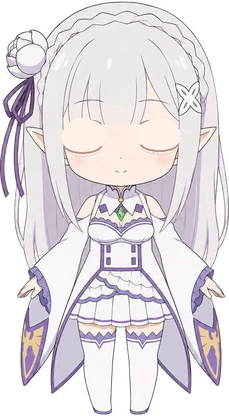
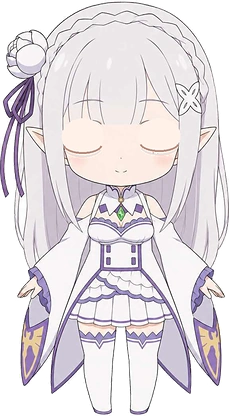
perf(pet): 三档分辨率 + 缩放后锐化，提升像素精度
- 新增 624（3×）档，srcset 按 DPR 选 1×/2×/3×；1× 改 WebP（45KB → 16KB）
- 缩放统一 LANCZOS + UnsharpMask(0.8σ, 45%)，PNG 仅留作兜底
- 虹膜补丁同步出 1×/2×/3× 三档

diff --git a/source/js/pet.js b/source/js/pet.js
@@ -33,14 +33,16 @@
   var bubbleTimer = null, lastPath = null, raf = 0;
 
   /* ---------- 伪 2.5D：整卡透视倾斜 ---------- */
-  var SPRITE_1X = '/images/pet/front_208.png';
+  var SPRITE_1X = '/images/pet/front_208.webp';
   var SPRITE_2X = '/images/pet/front_416.webp';
-  var SPRITE_CLOSED_1X = '/images/pet/front_closed_208.png';
+  var SPRITE_3X = '/images/pet/front_624.webp';
+  var SPRITE_CLOSED_1X = '/images/pet/front_closed_208.webp';
   var SPRITE_CLOSED_2X = '/images/pet/front_closed_416.webp';
+  var SPRITE_CLOSED_3X = '/images/pet/front_closed_624.webp';
   // 只覆盖虹膜本体（底图里的虹膜已被抹成眼白），眼眶/睫毛不动
   var EYES = [
-    { src: '/images/pet/iris_l.webp', src2: '/images/pet/iris_l@2x.webp', x: 32.81, y: 30.15, w: 9.90, h: 6.01 },
-    { src: '/images/pet/iris_r.webp', src2: '/images/pet/iris_r@2x.webp', x: 63.02, y: 30.25, w: 9.55, h: 5.92 }
+    { src: '/images/pet/iris_l.webp', src2: '/images/pet/iris_l@2x.webp', src3: '/images/pet/iris_l@3x.webp', x: 32.81, y: 30.15, w: 9.90, h: 6.01 },
+    { src: '/images/pet/iris_r.webp', src2: '/images/pet/iris_r@2x.webp', src3: '/images/pet/iris_r@3x.webp', x: 63.02, y: 30.25, w: 9.55, h: 5.92 }
   ];
   var MAX_EYE_X = 2.0, MAX_EYE_Y = 1.3;   // 虹膜最大位移（CSS px，1x）
   var TILT_START = 0.62;                  // 指针偏移超过这个比例才开始带头部倾斜
@@ -178,7 +180,7 @@
       el2.alt = '';
       el2.draggable = false;
       el2.src = cfg.src;
-      el2.srcset = cfg.src2 + ' 2x';
+      el2.srcset = cfg.src2 + ' 2x, ' + cfg.src3 + ' 3x';
       el2.style.left = cfg.x + '%';
       el2.style.top = cfg.y + '%';
       el2.style.width = cfg.w + '%';
@@ -206,7 +208,9 @@
   var blinkTimer = null, blinkOn = false, blinkImg = null;
 
   function swapFrame(img, closed) {
-    img.srcset = (closed ? SPRITE_CLOSED_2X : SPRITE_2X) + ' 2x';
+    img.srcset = closed
+      ? SPRITE_CLOSED_2X + ' 2x, ' + SPRITE_CLOSED_3X + ' 3x'
+      : SPRITE_2X + ' 2x, ' + SPRITE_3X + ' 3x';
     img.src = closed ? SPRITE_CLOSED_1X : SPRITE_1X;
   }
 
@@ -233,7 +237,7 @@
     // 预载闭眼帧，避免首次切换闪白
     try {
       var pre = new Image();
-      pre.srcset = SPRITE_CLOSED_2X + ' 2x';
+      pre.srcset = SPRITE_CLOSED_2X + ' 2x, ' + SPRITE_CLOSED_3X + ' 3x';
       pre.src = SPRITE_CLOSED_1X;
     } catch (e) {}
     scheduleBlink();
@@ -294,7 +298,7 @@
     card.className = 'pet-card';
     var img = document.createElement('img');
     img.src = SPRITE_1X;
-    img.srcset = SPRITE_2X + ' 2x';
+    img.srcset = SPRITE_2X + ' 2x, ' + SPRITE_3X + ' 3x';
     img.alt = '';
     img.draggable = false;
     img.decoding = 'async';

diff --git a/source/images/pet/ATTRIBUTION.md b/source/images/pet/ATTRIBUTION.md
@@ -9,5 +9,6 @@
 ## 说明
 
 - 仅提交渲染/裁切产物，原始图与中间文件不入库。
+- 交付三档分辨率：208（1×，WebP）/ 416（2×）/ 624（3×），缩放后统一做 UnsharpMask(0.8σ, 45%) 锐化；PNG 版仅作无 WebP 环境的兜底。
 - 站点署名位置：`about` 页「素材致谢」段落；桌宠容器带 `data-credit` 属性。
 - 若将来替换形象，请在此表追加一行并同步 about 致谢。
